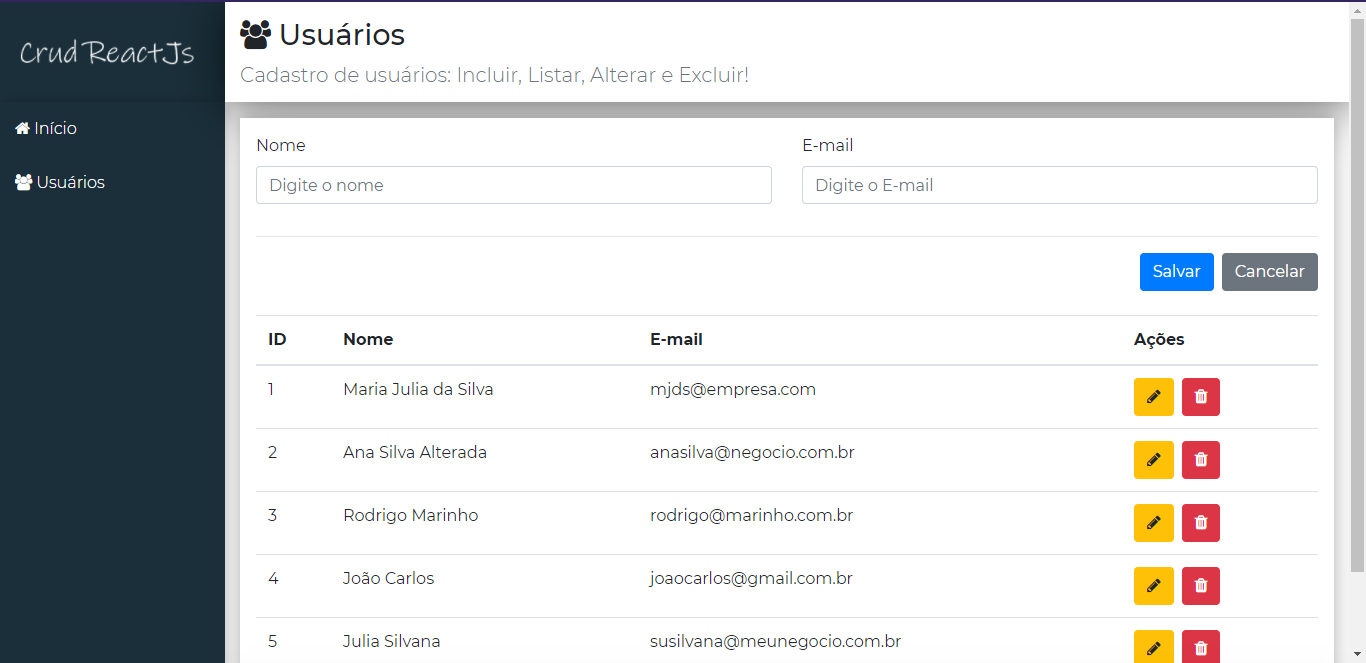
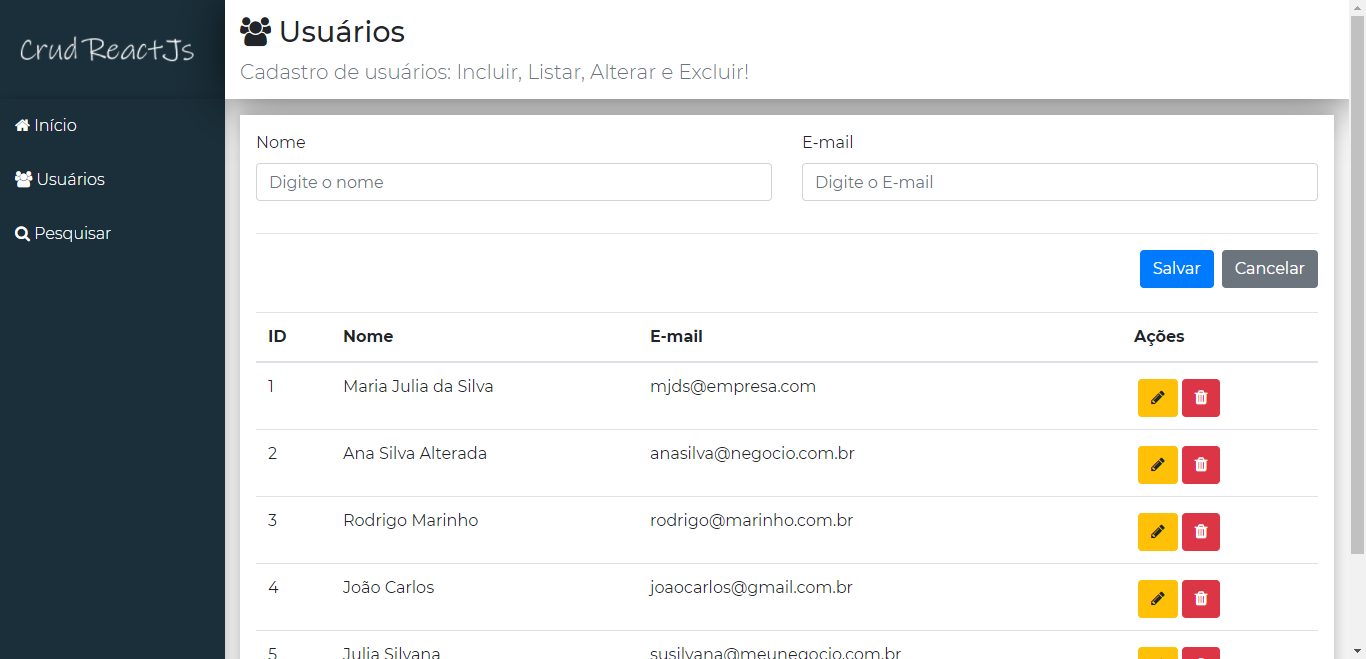
Aba de pesquisa incluída

diff --git a/frontend/src/components/template/Search.jsx b/frontend/src/components/template/Search.jsx
@@ -1,0 +1,97 @@
+import React, { Component } from 'react'
+import axios from 'axios'
+
+import Main from './Main'
+
+const headerProps = {
+    icon: 'search',
+    title: 'Pesquisa',
+    subtitle: 'Pesquise os usuários pelo nome'
+}
+
+const baseUrl = 'http://localhost:3001/users'
+const initialState = {
+    list: []
+}
+
+export default class Search extends Component {
+    state = { ...initialState }
+
+    searchUser() {
+        const name = document.querySelector('input').value
+        axios(baseUrl)
+            .then(resp => {
+                let users = resp.data
+                users = users.filter(user => user.name === name)
+                this.setState({ list: users })
+            })
+    }
+
+    renderTable() {
+        return (
+            <table className="table mt-4">
+                <thead>
+                    <tr>
+                        <th>ID</th>
+                        <th>Nome</th>
+                        <th>E-mail</th>
+                        <th>Ações</th>
+                    </tr>
+                </thead>
+                <tbody>
+                    {this.renderRows()}
+                </tbody>
+            </table>
+        )
+    }
+
+    renderRows() {
+        return this.state.list.map(user => {
+            return (
+                <tr key={user.id}>
+                    <td>{user.id}</td>
+                    <td>{user.name}</td>
+                    <td>{user.email}</td>
+                    <td>
+                        <button className="btn btn-warning mt-1 ml-1" onClick={() => this.load(user)}>
+                            <i className="fa fa-pencil"></i>
+                        </button>
+                        <button className="btn btn-danger mt-1 ml-1" onClick={() => this.remove(user)}>
+                            <i className="fa fa-trash"></i>
+                        </button>
+                    </td>
+                </tr>
+            )
+        })
+    }
+
+    renderForm() {
+        return (
+            <div className="form">
+                <div className="row">
+                    <div className="col-12 col-md-6">
+                        <div className="form-group">
+                            <label>Nome</label>
+                            <input type="text" name="name" placeholder="Digite o nome para pesquisa" className="form-control"/>
+                        </div>
+                    </div>
+                </div>
+
+                <div className="row">
+                    <div className="col-12 d-flex justify-content-end">
+                        <button className="btn btn-primary" onClick={() => this.searchUser()}>Pesquisar</button>
+                    </div>
+                </div>
+            </div>
+        )
+    }
+    
+    render () {
+        return (
+            <Main { ...headerProps }>
+                {this.renderForm()}
+                {this.renderTable()}
+            </Main>
+        )
+    }
+}

diff --git a/frontend/src/main/Routes.jsx b/frontend/src/main/Routes.jsx
@@ -3,11 +3,13 @@ import { Switch, Route, Redirect } from 'react-router'
 
 import Home from '../components/home/Home'
 import UserCrud from '../components/user/UserCrud'
+import Search from '../components/template/Search'
 
 const Routes = props => 
     <Switch>
         <Route exact path="/" component={Home}></Route>
         <Route path="/users" component={UserCrud}></Route>
+        <Route path="/search" component={Search}></Route>
         <Redirect from="*" to="/"></Redirect>
     </Switch>
 

diff --git a/frontend/src/components/template/Nav.jsx b/frontend/src/components/template/Nav.jsx
@@ -12,6 +12,9 @@ const Nav = props => {
                 <Link to="/users">
                     <i className="fa fa-users"></i> Usuários
                 </Link>
+                <Link to="/search">
+                    <i className="fa fa-search"></i> Pesquisar
+                </Link>
             </nav>
         </aside>
     )

diff --git a/README.md b/README.md
@@ -26,6 +26,9 @@
 <p align="center">
   <img alt="CRUD React" src=".github/main.png" width="100%">
 </p>
+<p align="center">
+  <img alt="CRUD React Mobile" src=".github/main-mobile.png" width="100%">
+</p>
 
 ## :clipboard: Sobre o Projeto
 
